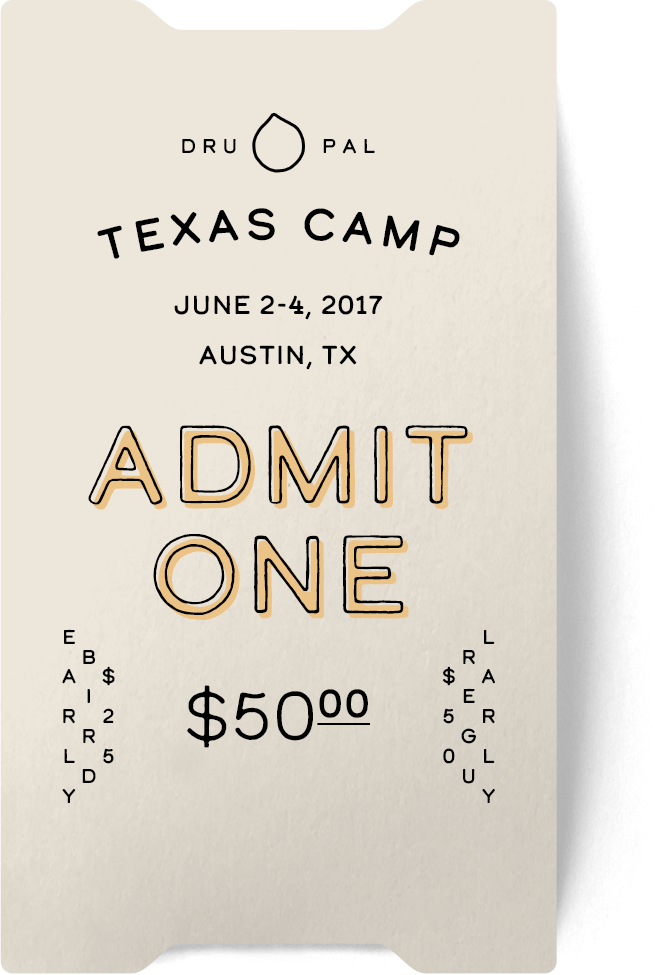
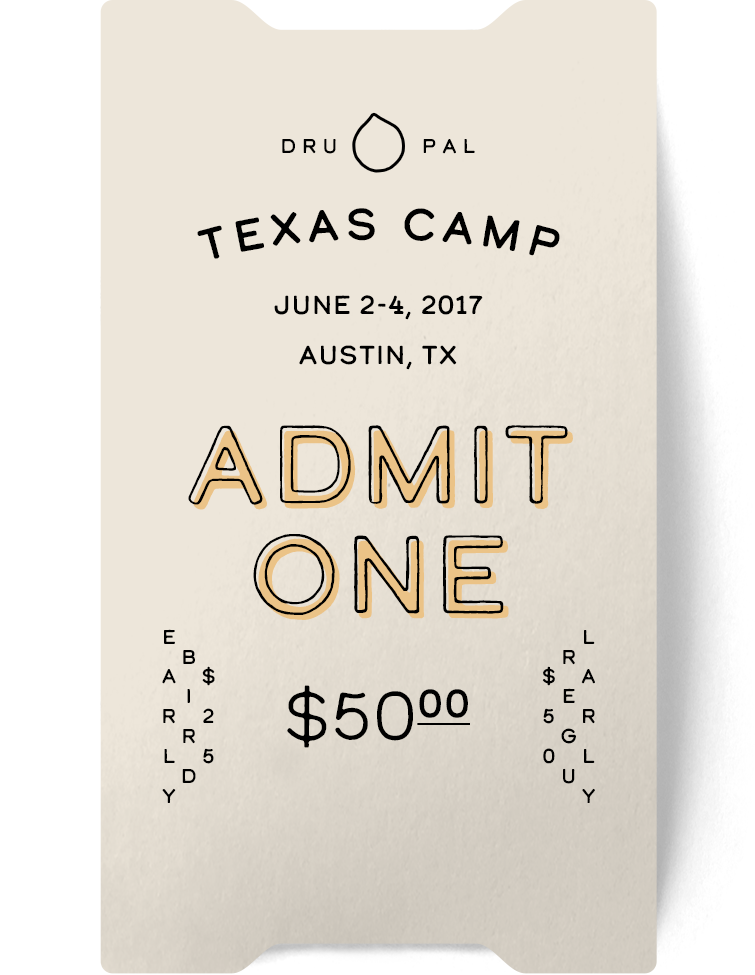
Switch to $50 ticket image

diff --git a/src/components/Frame/Tickets/index.js b/src/components/Frame/Tickets/index.js
@@ -3,7 +3,7 @@ import Page from '../../Page';
 import Title from '../../Title';
 import Content from '../../Content';
 import background from './tickets-bg.jpg';
-import ticket from './ticket.png';
+import ticket from './ticket-regular.png';
 
 function Tickets() {
   return (
